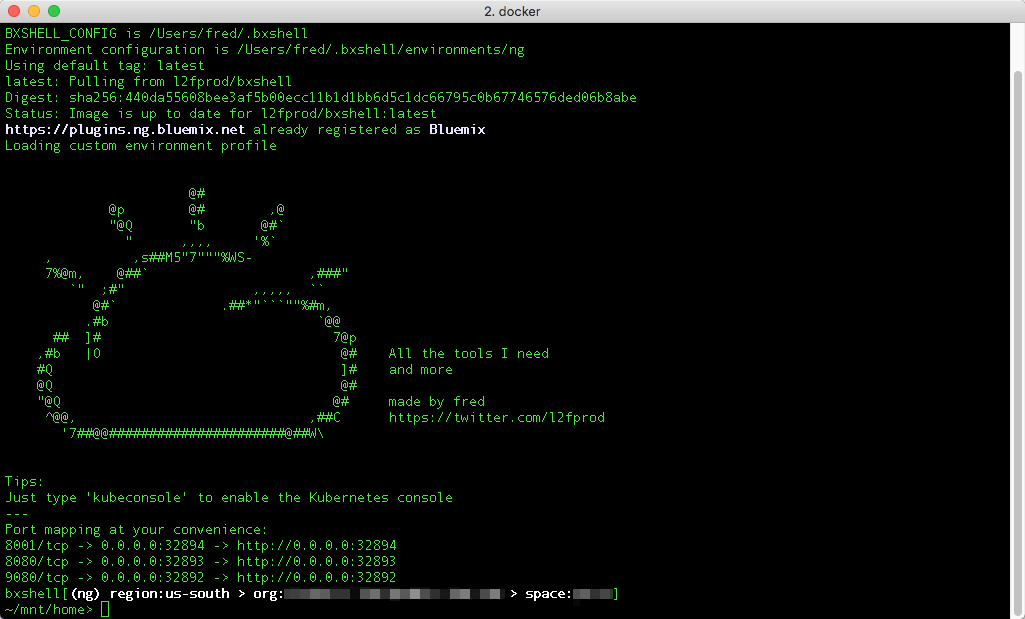
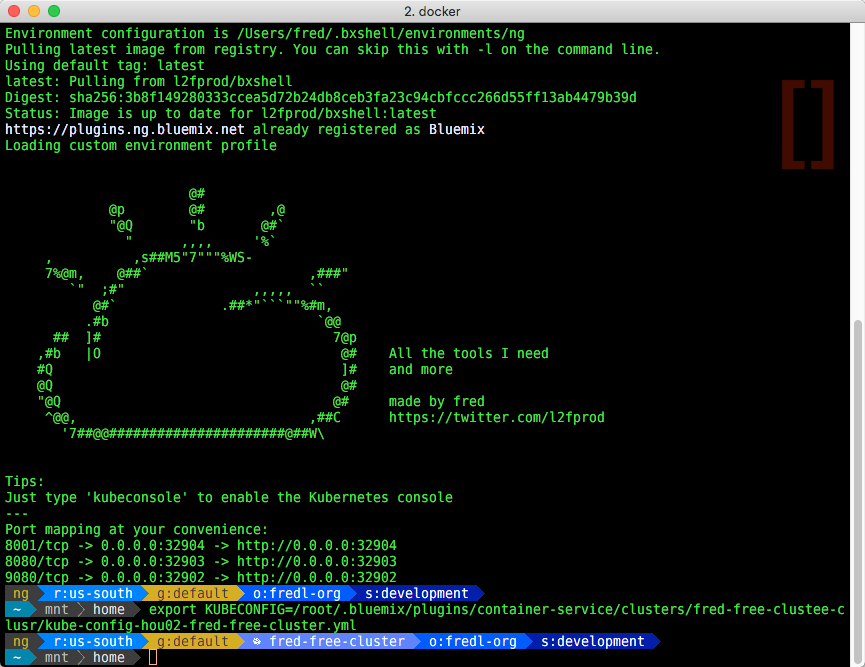
document powerline

diff --git a/README.md b/README.md
@@ -47,6 +47,7 @@
 1. Restart the shell `bxshell us-south` to restore account, org, space
 
 1. Run multiple environments in parallel in different shells
+
 ## How it works
 
 On your host, **bxshell** stores configuration files under `$HOME/.bxshell` where it creates one subfolder per environment. Under these folders, you'll find several configuration files created by the Docker container as you use the various IBM Cloud CLI and other scripts there.
@@ -78,7 +79,30 @@ Use `bxshell -t` to run the Docker container with no mount and no persistent sto
 
 ### Environment Customization
 
+#### Global env file
+
+You can define global environment variables passed to all sessions by editing `$HOME/.bxshell/global.env`.
+
+Example:
+   ```
+   BXSHELL_ENABLE_POWERLINE=1
+   LANG=en_US.utf8
+   ```
+
+### Local customization
+
 Under `$HOME/.bxshell/<env_name>` you can create a `.env_profile` file to perform additional initialization when bxshell starts.
+
+### Using powerline shell
+
+**bxshell** comes with experimental support for [Powerline shell](https://github.com/b-ryan/powerline-shell/).
+
+1. Add `BXSHELL_ENABLE_POWERLINE=1` to the global.env file
+1. Download and install a [Powerline patched font](https://github.com/powerline/fonts). I use DejaVu
+1. Configure your shell to use this font.
+
+This is my configuration for iTerm 2:
+![text](iterm-preferences-text.png)
 
 ### Using X11 apps on macOS
 
